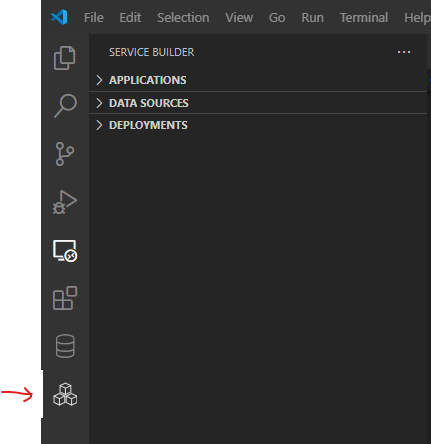
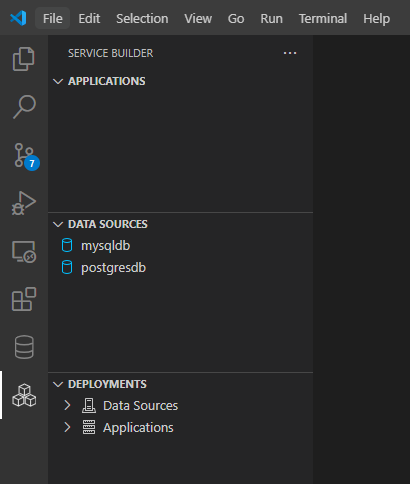
update readme

Changed region(s): [[0.0, 0.0, 1.0, 1.0], [0.9951, 0.1757, 1.0, 0.205], [0.7024, 0.0878, 0.7317, 0.1171]]

diff --git a/README.md b/README.md
@@ -2,12 +2,17 @@
 
 ## Overview
 
-This project creates a VS Code Dev Container on your local machine for data access service. It
+This project creates a development environment on your local machine for data access service. It
 
-- Installs `Service Builder Extension Pack`, the development tool for data access services. 
-- Installs `Database Client Extension`, a database tool for PostgreSQL, MySQL and others.
+- Creates and starts a Dev Container `builder` and installs the following VS Code extensions:
 
-  [Database Client Quick Start](https://database-client.com/#/document)
+  - `Service Builder Extension Pack`, the development tool for data access services. 
+  - `Database Client Extension`, a database tool for PostgreSQL, MySQL and others.  
+    > [Here is a quick start for Database Client.](https://database-client.com/#/document)
+
+- Creates and starts a DAS development server container `devtime`.
+- Creates and starts a MySQL database container `mysql`, preinstalled with the `classicmodels` sample database.
+- Creates and starts a PostgreSQL database `postgres`, preinstalled with the `pagila` sample database.
 
 
 ## Get Started
@@ -47,29 +52,26 @@ code .
 - Press F1 to invoke the Command Palette.
 - Type and select "`Dev containers: Reopen in Container`".
 
-    [Quick start: Open an existing folder in a container](https://code.visualstudio.com/docs/devcontainers/containers#_quick-start-open-an-existing-folder-in-a-container)
+    > [Quick start: Open an existing folder in a container](https://code.visualstudio.com/docs/devcontainers/containers#_quick-start-open-an-existing-folder-in-a-container)
 
 This step
 
-- Creates and starts Dev Container `rdas`.
+- Creates and starts Dev Container `builder`.
 - Creates and starts development server `devtime`.
 - Creates and starts MySQL database `mysql`.
 - Creates and starts PostgreSQL database `postgres`.
-- Installs `Service Builder Extension Pack`, the development tool for data access services. 
-- Installs `Database Client`, a database tool for PostgreSQL, MySQL and others.
-
-    [Database Client Quick Start](https://database-client.com/#/document)
+- Installs `Service Builder Extension Pack` and `Database Client` VS Code extensions.
 
 This step complets when the `Service Builder` icon ![service-builder](.images/service-builder-icon.png) and the `Database Client` icon ![database-client](.images/db-client-icon.png) appear on the `Activity Bar`, as shown in the following:
 
 ![](./.images/OpenProjectInContainer.png)
 
-In addition, the `docker ps` command should list:
+In addition, the `docker ps` command should list the following containers:
 
-- rdas, the dev container
-- devtime, the DAS development server
-- mysql, MySQL service preloaded with `classicmodels` sample database and
-- postgres, PostgreSQL service preloaded with `pagila` sample database.
+- `builder`, the dev container
+- `devtime`, the DAS development server
+- `mysql`, MySQL service preloaded with `classicmodels` sample database and
+- `postgres`, PostgreSQL service preloaded with `pagila` sample database.
 
 ### Activate Service Builder
 
@@ -79,24 +81,36 @@ Click the `Service Builder` icon ![service-builder](.images/service-builder-icon
 
 ### Register Service Builder with Dev Server
 
+Registering the Service Builder with the Dev Server creates and connects the Service Builder with a workspace on the Dev Server.
+
+- Click the `Applications` bar, then the `more` icon `...`, and select `Register Builder`.
+
+  ![](.images/RegisterBuilder.png)
+
+- Enter "http://localhost:8080" in the input box and press enter.
+
+The Service Builder is registered with the Dev Server.
+
 
 ## Troubleshoot
 
-In case of error when openning the project in container, 
+In case of error when reopening the project in container, 
 
-- list the docker container:
+- list the docker containers:
 
     ```
     docker ps -a
     ```
 
-- remove dev container `rdas`, if exists
+- remove dev container `builder`, if exists, so that it can be rebuild:
 
     ```
-    docker rm rdas
+    docker rm builder
     ```
 
 - reopen project in container
+
+> Note: There may be situations where you also need to first remove the `devtime`, `mysql` and `postgres` containers.
 
 
 ## File Structure
@@ -109,7 +123,78 @@ In case of error when openning the project in container,
 
 - `docker-compose.yml`
 
-  This files configures the DevContainer, the DevServer, a MySQL database and a PostgreSQL database. 
+  This files configures the DevContainer, the DevServer, a MySQL database and a PostgreSQL database. This file may be modified based on your own needs.
+
+  ```yml
+  version: "3.3"
+
+  services:
+    # DevContainer
+    builder:
+      image: "mcr.microsoft.com/devcontainers/base:alpine-3.19"
+      container_name: "builder"
+      command: 
+        - sh
+        - -c
+        - |
+          apk update && apk add --no-cache git
+          git config --global --add safe.directory /workspaces/testfolder
+          sleep infinity
+      volumes:
+        - ../../:/workspaces:cached
+        - ~/.ssh:/home/vscode/.ssh
+      network_mode: service:devtime
+
+    # MySQL DB
+    mysql:
+      image: "mysql:8.2.0"
+      container_name: "mysql"
+      ports:
+        - "3306:3306"
+      environment:
+        - MYSQL_ROOT_PASSWORD=password123
+        # create database `classicmodels` and user `sample`. modify for your own needs.
+        - MYSQL_DATABASE=classicmodels
+        - MYSQL_USER=sample
+        - MYSQL_PASSWORD=password123
+      restart: always
+      deploy:
+        resources:
+          limits:
+            memory: 256M
+      volumes:
+        # initialize database with sql scripts in `../.init/mysql`
+        # default to creating classicmodels tables. modify for your own needs.
+        - ../.init/mysql:/docker-entrypoint-initdb.d
+
+    # Postgres DB
+    postgres:
+      image: "postgres:15.6"
+      container_name: "postgres"
+      ports:
+        - "5432:5432"
+      environment:
+      # create database `pagila` and user `sample`
+      - POSTGRES_DB=pagila
+      - POSTGRES_USER=sample
+      - POSTGRES_PASSWORD=password123
+      restart: always
+      volumes:
+        # initialize database with sql scripts in `../.init/postgres`
+        # default to creating pagila tables. modify for your own needs.
+        - ../.init/postgres:/docker-entrypoint-initdb.d
+
+    # DevServer
+    devtime:
+      image: "public.ecr.aws/backlogic/service-builder:latest"
+      container_name: "devtime"
+      ports:
+        - "8080:8080"
+      environment:
+        - spring.profiles.active=prod
+        - runtime.engine.hikari-cp-config.maximumPoolSize=5
+      restart: "unless-stopped"
+  ```
 
 ### The `.init` Folder
 
@@ -121,5 +206,5 @@ In case of error when openning the project in container,
 
   This subfolder folder contains the `SQL` scripts to initialize the PostgreSQL database. By default, it installs the `pagila` sample database.
 
-
+> Note: you may replaces the SQL scripts in the `.init` folders with your own.
 
